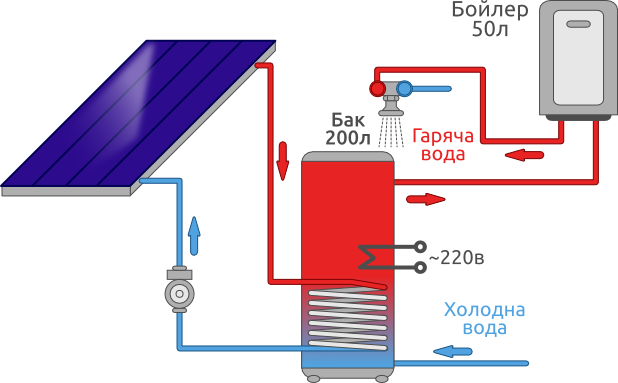
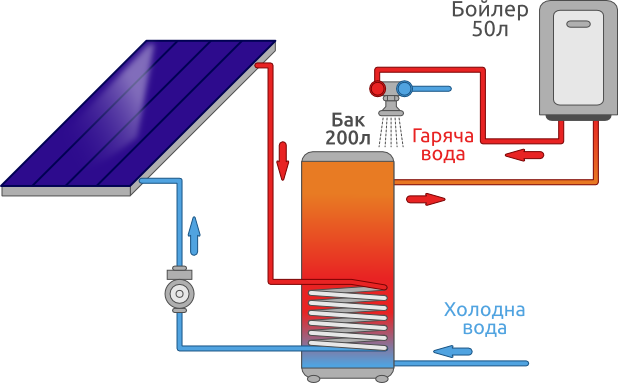
Added text and changed chart-2 on sunwarmth page

Changed region(s): [[0.4612, 0.3446, 0.9838, 0.718], [0.5841, 0.7467, 0.6456, 0.9191], [0.4612, 0.7467, 0.5534, 0.8903]]

diff --git a/templates/sunwarmth.html b/templates/sunwarmth.html
@@ -2,10 +2,49 @@
     <h2 class="text-muted">Сонячне тепло</h2>
 </div>
 <p>
-    Blah... Blah... Blah...
+    Якщо у Вас є бажання зменшити свою енергозалежність від зовнішніх постачальників енергоресурсів, то один із варіантів вирішення даної ситуації &mdash; це встановлення системи сонячного підігріву гарячого водопостачання.
 </p>
-<img src="/img/chart-01.png" class="img-responsive" />
 <p>
-    Blah... Blah... Blah...
+    В більшості випадків проблема гарячого водопостачання вирішується простим і зручним способом &mdash; купівлею електричного бойлера об’ємом 50-150л. Бойлер нагріває воду за рахунок електрики, електротеном потужністю 1,5-2Квт, що в результаті може скласти основну частину затрат на електроенергію в літній період.
 </p>
-<img src="/img/chart-02.png" class="img-responsive" />
+<p>
+    Для того, щоб показати ефективність підключення сонячних колекторів до вже існуючої системи гарячого водопостачання, потрібно розглянути це на прикладах:
+</p>
+<img src="/img/chart-01.png" class="img-responsive centered" />
+<p>
+    Система сонячного нагріву води включає в себе набір сонячних колекторів, накопичувальний бак непрямого нагріву і сантехнічну обв'язку. Це стандартна система підключення сонячних колекторів. Ця схема добре працює в регіонах, де більше 200 сонячних днів в рік. Проте є регіони де лише 90-120 сонячних днів в рік, і в даної схеми з'являється декілька недоліків, особливо у хмарні дні.
+</p>
+<p>
+    У похмурий день, електричний ТЕН грітиме весь обєм води в накопичувальній ємності, незалежно від потреби в ГВП, і повинен підтримувати температуру ЗАВЖДИ не нижче мінімальної, наприклад +45&deg;C. Але ефективність сонячного колектора дуже залежить від різниці між температурою на вулиці і в баку. Іншими словами при однаковій сонячній активності, і за однаковий час, температура в ємкості підросте на 40&deg;C, якщо початкова температура булла +10&deg;C, і підросте тільки на 28&deg;C, якщо початкова температура в баку була +45&deg;C.
+</p>
+<p>
+    Швидкість охолодження будь-якого бака за ніч, не дивлячись на утеплення, прямо пропорційна температурі в ньому. Наприклад, бойлер ємністю 50л за ніч втратить тепла приблизно в 3 рази менше ніж бойлер їмністю 150л, з тією ж початковою температурою. Отже, дана схема на двох ланках роботи має втрати.
+</p>
+<p>
+    Наступна cхема підключення сонячних колекторів не має даних неділіків.
+</p>
+<img src="/img/chart-02.png" class="img-responsive centered" />
+<p>
+    Тут електричний ТЕН знаходиться в окремому бойлері-догрівачу ємністю в 3-4 рази менше, ніж основний накопичувальний бак. Це дозволяє зменшити втрати тепла, і максимально підвищити ефективність системи при використанні сонячних колекторів з прямоюточним тепловим каналом. Дані колектори теоретично можуть працювати з температурою носія від 0 градусів.
+</p>
+<p>
+    Наприклад, за день накопичувальний бак нагрівся до +35&deg;C, а на термостаті бака-догрівача установлена температура +50&deg;C. З водопроводу поступає холодна вода +8&deg;C.
+</p>
+<p>
+    По мірі використання гарячої води з накопичувальної ємності, тепла вода з температурою +35?&deg;C буде витіснятися знизу вверх холодною водою що поступає (+8&deg;C) в бак-догрівач. В баці-догрівачі вода догріється з +35&deg;C до +50&deg;С і споживач, в хмарні дні, отримає гарячої води стільки, скільки необхідно, а сонячний коллектор буде працювати з холодною водою що поступила (+8&deg;C) максимально ефективно.
+</p>
+<p>
+    Якщо ж основний накопичувач нагріється до температури +50&deg;C або вище встановленої в бойлері-догрівачу, то електротен не включиться, і гаряча вода з накопиченої ємності пройде транзитом через бак-догрівач користувачам.
+</p>
+<p>
+    Така схема дозволяє реалізувати максимальну ефективність сонячних колекторів, оскільки вони завжди працюють з мінімально можливою початковою температурою води без участі електропідігріву.
+</p>
+<p>
+    До того ж, дана схема дозволяє зберегти старий бойлер або бойлер опосередкованого нагріву ГВС, що підключений до інших джерел нагрівання. Між такими бойлерами можна влаштувати рецеркуляцію.
+</p>
+<p>
+    Для розрахунку об'єму накопичувальної ємності для гарячого водопостачання можна використовувати приблизну формулу: один сонячний коллектор розміром 2x1 метр або 15-трубний вакуумник на 120л води.
+</p>
+<p>
+    Необхідно зазначити, що вигідніше встановлювати не один сонячний коллектор, а відразу 2, 3 і більше. Оскільки вартість сантехнічної обв'язки системи для одного коллектора і для трьох суттєво не відрізняється.
+</p>

diff --git a/css/helio_tema.css b/css/helio_tema.css
@@ -62,29 +62,29 @@ body {
     .side-wrapper {
         padding: 0 10px 0 0;
     }
-    
+
     .navbar {
         margin-bottom: 20px;
     }
-    
+
     .list-group-item:first-child {
         -webkit-border-radius: 6px 6px 0 0;
         -moz-border-radius: 6px 6px 0 0;
         border-radius: 6px 6px 0 0;
     }
-    
+
     .list-group-item:last-child {
         -webkit-border-radius: 0 0 6px 6px;
         -moz-border-radius: 0 0 6px 6px;
         border-radius: 0 0 6px 6px;
     }
-    
+
     .content-wrapper {
         -webkit-border-radius: 6px;
         -moz-border-radius: 6px;
         border-radius: 6px;
     }
-    
+
 }
 
 .content-wrapper, .list-group-item {
@@ -209,4 +209,9 @@ a.list-group-item, a.list-group-item .list-group-item-heading {
     width: 60px;
     height: 60px;
     margin-right: 10px;
+}
+
+.img-responsive.centered {
+    margin-right: auto;
+    margin-left: auto;
 }
